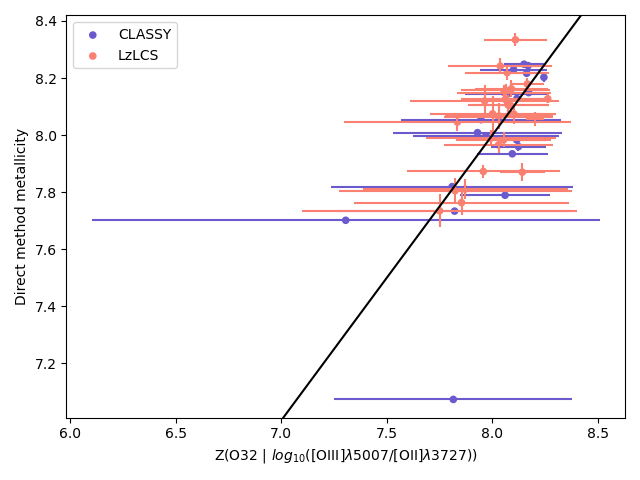
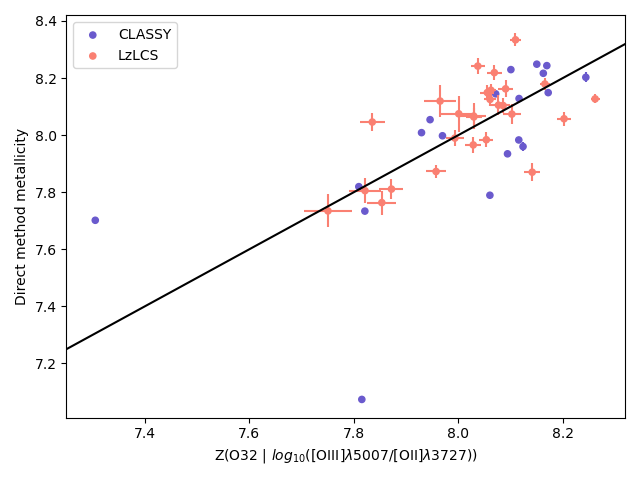
Replaced strong-line error calculations with a Monte Carlo

diff --git a/Strong-line Abundances/StrongLinesMainandPlot.py b/Strong-line Abundances/StrongLinesMainandPlot.py
@@ -35,30 +35,59 @@ def CLASSY():
 
     h_alpha = pd.read_excel(classy_cel_filepath, usecols = "BL", skiprows = 0).to_numpy().flatten()[0:45]
     h_beta = pd.read_excel(classy_cel_filepath, usecols = "AN", skiprows = 0).to_numpy().flatten()[0:45]
-    h_gamma = pd.read_excel(classy_cel_filepath, usecols = "N", skiprows = 0).to_numpy().flatten()[0:45]
 
     o_ii_3727 = pd.read_excel(classy_cel_filepath, usecols = "B", skiprows = 0).to_numpy().flatten()[0:45]
-    o_ii_3729 = pd.read_excel(classy_cel_filepath, usecols = "F", skiprows = 0).to_numpy().flatten()[0:45]
-    o_ii_7320 = pd.read_excel(classy_cel_filepath, usecols = "CB", skiprows = 0).to_numpy().flatten()[0:45]
-    o_ii_7330 = pd.read_excel(classy_cel_filepath, usecols = "CF", skiprows = 0).to_numpy().flatten()[0:45]
-
+    
     o_iii_5007 = pd.read_excel(classy_cel_filepath, usecols = "AV", skiprows = 0).to_numpy().flatten()[0:45]
-    o_iii_4959 = pd.read_excel(classy_cel_filepath, usecols = "AR", skiprows = 0).to_numpy().flatten()[0:45]
-    o_iii_4363 = pd.read_excel(classy_cel_filepath, usecols = "R", skiprows = 0).to_numpy().flatten()[0:45]
 
     n_ii_6584 = pd.read_excel(classy_cel_filepath, usecols = "BP", skiprows = 0).to_numpy().flatten()[0:45]
 
-    s_ii_6717 = pd.read_excel(classy_cel_filepath, usecols = "BT", skiprows = 0).to_numpy().flatten()[0:45]
-    s_ii_6731 = pd.read_excel(classy_cel_filepath, usecols = "BX", skiprows = 0).to_numpy().flatten()[0:45]
-
-    s_iii_6312 = pd.read_excel(classy_cel_filepath, usecols = "BH", skiprows = 0).to_numpy().flatten()[0:45]
-    s_iii_9069 = pd.read_excel(classy_cel_filepath, usecols = "CN", skiprows = 0).to_numpy().flatten()[0:45]
-
-    ar_iii_7135 = pd.read_excel(classy_cel_filepath, usecols = "CJ", skiprows = 0).to_numpy().flatten()[0:45]
-
     ne_iii_3869 = pd.read_excel(classy_cel_filepath, usecols = "CR", skiprows = 0).to_numpy().flatten()[0:45]
 
-    fe_iii_4658 = pd.read_excel(classy_cel_filepath, usecols = "Z", skiprows = 0).to_numpy().flatten()[0:45]
+
+    h_alpha_err_u = pd.read_excel(classy_cel_filepath, usecols = "BM", skiprows = 0).to_numpy().flatten()[0:45]
+    h_beta_err_u = pd.read_excel(classy_cel_filepath, usecols = "AO", skiprows = 0).to_numpy().flatten()[0:45]
+
+    o_ii_3727_err_u = pd.read_excel(classy_cel_filepath, usecols = "C", skiprows = 0).to_numpy().flatten()[0:45]
+    
+    o_iii_5007_err_u = pd.read_excel(classy_cel_filepath, usecols = "AW", skiprows = 0).to_numpy().flatten()[0:45]
+
+    n_ii_6584_err_u = pd.read_excel(classy_cel_filepath, usecols = "BQ", skiprows = 0).to_numpy().flatten()[0:45]
+
+    ne_iii_3869_err_u = pd.read_excel(classy_cel_filepath, usecols = "CS", skiprows = 0).to_numpy().flatten()[0:45]
+
+
+    h_alpha_err_d = pd.read_excel(classy_cel_filepath, usecols = "BN", skiprows = 0).to_numpy().flatten()[0:45]
+    h_beta_err_d = pd.read_excel(classy_cel_filepath, usecols = "AP", skiprows = 0).to_numpy().flatten()[0:45]
+
+    o_ii_3727_err_d = pd.read_excel(classy_cel_filepath, usecols = "D", skiprows = 0).to_numpy().flatten()[0:45]
+    
+    o_iii_5007_err_d = pd.read_excel(classy_cel_filepath, usecols = "AX", skiprows = 0).to_numpy().flatten()[0:45]
+
+    n_ii_6584_err_d = pd.read_excel(classy_cel_filepath, usecols = "BR", skiprows = 0).to_numpy().flatten()[0:45]
+
+    ne_iii_3869_err_d = pd.read_excel(classy_cel_filepath, usecols = "CT", skiprows = 0).to_numpy().flatten()[0:45]
+
+
+    h_alpha_err = (h_alpha_err_u + h_alpha_err_d) / 2
+    h_beta_err = (h_beta_err_u + h_beta_err_d) / 2
+
+    o_ii_3727_err = (o_ii_3727_err_u + o_ii_3727_err_d) / 2
+    
+    o_iii_5007_err = (o_iii_5007_err_u + o_iii_5007_err_d) / 2
+    n_ii_6584_err = (n_ii_6584_err_u + n_ii_6584_err_d) / 2
+
+    ne_iii_3869_err = (ne_iii_3869_err_u + ne_iii_3869_err_d) / 2
+
+    #Extend strong-line intensities to an array of intensities with the mean at the empirical value
+    #And the standard deviation as the error on the empirical value
+
+    h_alpha = np.random.normal(h_alpha[:, None], h_alpha_err[:, None], size = (45, 1000))
+    h_beta = np.random.normal(h_beta[:, None], h_beta_err[:, None], size = (45, 1000))
+    o_ii_3727 = np.random.normal(o_ii_3727[:, None], o_ii_3727_err[:, None], size = (45, 1000))
+    o_iii_5007 = np.random.normal(o_iii_5007[:, None], o_iii_5007_err[:, None], size = (45, 1000))
+    n_ii_6584 = np.random.normal(n_ii_6584[:, None], n_ii_6584_err[:, None], size = (45, 1000))
+    ne_iii_3869 = np.random.normal(ne_iii_3869[:, None], ne_iii_3869_err[:, None], size = (45, 1000))
 
     #Direct method metallicity
     direct_Z = pd.read_csv(classy_data_filepath, delimiter = ",", usecols = [6], header = 0).to_numpy().flatten()
@@ -69,31 +98,41 @@ def CLASSY():
     #Strong line metallicities
     #R2 method
     R2 = np.log10(o_ii_3727 / h_beta)
-    Z_R2 = metallicity(8.00, 0.92, 0.40, 0.17, R2) #For t^2 > 0 (inhomogeneous case)
-    sigma_R2 = error(-0.20, -0.05, 0.36, R2)
+    Z_R2_dist = metallicity(8.00, 0.92, 0.40, 0.17, R2)  # For t^2 > 0 (inhomogeneous case)
+    Z_R2_median = np.nanmedian(Z_R2_dist, axis = 1)
+    Z_R2_error_up = np.nanpercentile(Z_R2_dist, 84, axis = 1) - Z_R2_median
+    Z_R2_error_down = Z_R2_median - np.nanpercentile(Z_R2_dist, 16, axis = 1)
 
     #O32 method
     O32 = np.log10(o_iii_5007 / o_ii_3727)
-    Z_O32 = metallicity(8.33, -0.32, 0.08, -0.09, O32)
-    sigma_O32 = error(-0.02, 0.02, 0.30, O32)
+    Z_O32_dist = metallicity(8.33, -0.32, 0.08, -0.09, O32)
+    Z_O32_median = np.nanmedian(Z_O32_dist, axis = 1)
+    Z_O32_error_up = np.nanpercentile(Z_O32_dist, 84, axis = 1) - Z_O32_median
+    Z_O32_error_down = Z_O32_median - np.nanpercentile(Z_O32_dist, 16, axis = 1)
 
     #Ne3O2 method
     Ne3O2 = np.log10(ne_iii_3869 / o_ii_3727)
-    Z_Ne3O2 = metallicity(7.85, -0.71, -0.26, -0.05, Ne3O2)
-    sigma_Ne3O2 = error(-0.02, -0.04, 0.26, Ne3O2)
+    Z_Ne3O2_dist = metallicity(7.85, -0.71, -0.26, -0.05, Ne3O2)
+    Z_Ne3O2_median = np.nanmedian(Z_Ne3O2_dist, axis = 1)
+    Z_Ne3O2_error_up = np.nanpercentile(Z_Ne3O2_dist, 84, axis = 1) - Z_Ne3O2_median
+    Z_Ne3O2_error_down = Z_Ne3O2_median - np.nanpercentile(Z_Ne3O2_dist, 16, axis = 1)
 
     #R2Ne3 method
     R2Ne3 = np.log10((o_ii_3727 + ne_iii_3869) / h_beta)
-    Z_R2Ne3 = metallicity(7.83, 1.43, 0.00, 0.00, R2Ne3)
-    sigma_R2Ne3 = error(-0.57, 0.15, 0.31, R2Ne3)
+    Z_R2Ne3_dist = metallicity(7.83, 1.43, 0.00, 0.00, R2Ne3)
+    Z_R2Ne3_median = np.nanmedian(Z_R2Ne3_dist, axis = 1)
+    Z_R2Ne3_error_up = np.nanpercentile(Z_R2Ne3_dist, 84, axis = 1) - Z_R2Ne3_median
+    Z_R2Ne3_error_down = Z_R2Ne3_median - np.nanpercentile(Z_R2Ne3_dist, 16, axis = 1)
 
     #N2 method
     N2 = np.log10(n_ii_6584 / h_alpha)
-    Z_N2 = metallicity(9.27, 1.48, 0.86, 0.23, N2)
-    sigma_N2 = error(0.06, 0.17, 0.33, N2)
+    Z_N2_dist = metallicity(9.27, 1.48, 0.86, 0.23, N2)
+    Z_N2_median = np.nanmedian(Z_N2_dist, axis = 1)
+    Z_N2_error_up = np.nanpercentile(Z_N2_dist, 84, axis = 1) - Z_N2_median
+    Z_N2_error_down = Z_N2_median - np.nanpercentile(Z_N2_dist, 16, axis = 1)
 
-    return (direct_Z, direct_Z_err, Z_R2, sigma_R2, Z_O32, sigma_O32, Z_Ne3O2, 
-            sigma_Ne3O2, Z_R2Ne3, sigma_R2Ne3, Z_N2, sigma_N2, names)
+    return (direct_Z, direct_Z_err, Z_R2_median, (Z_R2_error_up + Z_R2_error_down)/2, Z_O32_median, (Z_O32_error_up + Z_O32_error_down)/2, Z_Ne3O2_median, (Z_Ne3O2_error_up + Z_Ne3O2_error_down)/2,
+    Z_R2Ne3_median, (Z_R2Ne3_error_up + Z_R2Ne3_error_down)/2, Z_N2_median, (Z_N2_error_up + Z_N2_error_down)/2, names)
 
 
 def LzLCS():
@@ -106,34 +145,49 @@ def LzLCS():
 
     h_alpha = pd.read_excel(lzlcs_cel_filepath, usecols = "AN", skiprows = 0).to_numpy().flatten()[0:27]
     h_beta = pd.read_excel(lzlcs_cel_filepath, usecols = "Z", skiprows = 0).to_numpy().flatten()[0:27]
-    h_gamma = pd.read_excel(lzlcs_cel_filepath, usecols = "T", skiprows = 0).to_numpy().flatten()[0:27]
-
+   
     o_ii_3727 = pd.read_excel(lzlcs_cel_filepath, usecols = "J", skiprows = 0).to_numpy().flatten()[0:27]
-    o_ii_3729 = pd.read_excel(lzlcs_cel_filepath, usecols = "L", skiprows = 0).to_numpy().flatten()[0:27]
 
     o_iii_5007 = pd.read_excel(lzlcs_cel_filepath, usecols = "AD", skiprows = 0).to_numpy().flatten()[0:27]
-    o_iii_4959 = pd.read_excel(lzlcs_cel_filepath, usecols = "AB", skiprows = 0).to_numpy().flatten()[0:27]
-    o_iii_4363 = pd.read_excel(lzlcs_cel_filepath, usecols = "V", skiprows = 0).to_numpy().flatten()[0:27]
-
-    n_ii_6584 = pd.read_excel(lzlcs_cel_filepath, usecols = "AP", skiprows = 0).to_numpy().flatten()[0:45]
-
-    s_ii_6717 = pd.read_excel(lzlcs_cel_filepath, usecols = "AR", skiprows = 0).to_numpy().flatten()[0:27]
-    s_ii_6731 = pd.read_excel(lzlcs_cel_filepath, usecols = "AT", skiprows = 0).to_numpy().flatten()[0:27]
+   
+    n_ii_6584 = pd.read_excel(lzlcs_cel_filepath, usecols = "AP", skiprows = 0).to_numpy().flatten()[0:27]
 
     ne_iii_3869 = pd.read_excel(lzlcs_cel_filepath, usecols = "N", skiprows = 0).to_numpy().flatten()[0:27]
 
+    h_alpha_err = pd.read_excel(lzlcs_cel_filepath, usecols="AO", skiprows=0).to_numpy().flatten()[0:27]
+    h_beta_err = pd.read_excel(lzlcs_cel_filepath, usecols="AA", skiprows=0).to_numpy().flatten()[0:27]
+    o_ii_3727_err = pd.read_excel(lzlcs_cel_filepath, usecols="K", skiprows=0).to_numpy().flatten()[0:27]
+    o_iii_5007_err = pd.read_excel(lzlcs_cel_filepath, usecols="AE", skiprows=0).to_numpy().flatten()[0:27]
+    n_ii_6584_err = pd.read_excel(lzlcs_cel_filepath, usecols="AQ", skiprows=0).to_numpy().flatten()[0:27]
+    ne_iii_3869_err = pd.read_excel(lzlcs_cel_filepath, usecols="O", skiprows=0).to_numpy().flatten()[0:27]
+
     h_alpha = fix_nan_issues(h_alpha)
+    h_alpha_err = fix_nan_issues(h_alpha_err)
+
     h_beta = fix_nan_issues(h_beta)
-    h_gamma = fix_nan_issues(h_gamma)
+    h_beta_err = fix_nan_issues(h_beta_err)
+
     o_ii_3727 = fix_nan_issues(o_ii_3727)
-    o_ii_3729 = fix_nan_issues(o_ii_3729)
+    o_ii_3727_err = fix_nan_issues(o_ii_3727_err)
+
     o_iii_5007 = fix_nan_issues(o_iii_5007)
-    o_iii_4959 = fix_nan_issues(o_iii_4959)
-    o_iii_4363 = fix_nan_issues(o_iii_4363)
+    o_iii_5007_err = fix_nan_issues(o_iii_5007_err)
+
     n_ii_6584 = fix_nan_issues(n_ii_6584)
-    s_ii_6717 = fix_nan_issues(s_ii_6717)
-    s_ii_6731 = fix_nan_issues(s_ii_6731)
+    n_ii_6584_err = fix_nan_issues(n_ii_6584_err)
+
     ne_iii_3869 = fix_nan_issues(ne_iii_3869)
+    ne_iii_3869_err = fix_nan_issues(ne_iii_3869_err)
+
+    #Extend strong-line intensities to an array of intensities with the mean at the empirical value
+    #And the standard deviation as the error on the empirical value
+
+    h_alpha = np.random.normal(h_alpha[:, None], h_alpha_err[:, None], size = (27, 1000))
+    h_beta = np.random.normal(h_beta[:, None], h_beta_err[:, None], size = (27, 1000))
+    o_ii_3727 = np.random.normal(o_ii_3727[:, None], o_ii_3727_err[:, None], size = (27, 1000))
+    o_iii_5007 = np.random.normal(o_iii_5007[:, None], o_iii_5007_err[:, None], size = (27, 1000))
+    n_ii_6584 = np.random.normal(n_ii_6584[:, None], n_ii_6584_err[:, None], size = (27, 1000))
+    ne_iii_3869 = np.random.normal(ne_iii_3869[:, None], ne_iii_3869_err[:, None], size = (27, 1000))
 
     #Direct method metallicity
     direct_Z = pd.read_csv(lzlcs_data_filepath, delimiter = ",", usecols = [8], header = 0).to_numpy().flatten()
@@ -141,35 +195,46 @@ def LzLCS():
     direct_Z_err_down = pd.read_csv(lzlcs_data_filepath, delimiter = ",", usecols = [10], header = 0).to_numpy().flatten()
     direct_Z_err = (direct_Z_err_up + direct_Z_err_down) / 2
 
-     #Strong line metallicities
+    #Strong line metallicities
     #R2 method
     R2 = np.log10(o_ii_3727 / h_beta)
-    Z_R2 = metallicity(8.00, 0.92, 0.40, 0.17, R2) #For t^2 > 0 (inhomogeneous case)
-    sigma_R2 = error(-0.20, -0.05, 0.36, R2)
+    Z_R2_dist = metallicity(8.00, 0.92, 0.40, 0.17, R2)
+    Z_R2_median = np.nanmedian(Z_R2_dist, axis = 1)
+    Z_R2_error_up = np.nanpercentile(Z_R2_dist, 84, axis = 1) - Z_R2_median
+    Z_R2_error_down = Z_R2_median - np.nanpercentile(Z_R2_dist, 16, axis = 1)
 
-    #O32 method
+    # O32 method
     O32 = np.log10(o_iii_5007 / o_ii_3727)
-    Z_O32 = metallicity(8.33, -0.32, 0.08, -0.09, O32)
-    sigma_O32 = error(-0.02, 0.02, 0.30, O32)
+    Z_O32_dist = metallicity(8.33, -0.32, 0.08, -0.09, O32)
+    Z_O32_median = np.nanmedian(Z_O32_dist, axis = 1)
+    Z_O32_error_up = np.nanpercentile(Z_O32_dist, 84, axis = 1) - Z_O32_median
+    Z_O32_error_down = Z_O32_median - np.nanpercentile(Z_O32_dist, 16, axis = 1)
 
     #Ne3O2 method
     Ne3O2 = np.log10(ne_iii_3869 / o_ii_3727)
-    Z_Ne3O2 = metallicity(7.85, -0.71, -0.26, -0.05, Ne3O2)
-    sigma_Ne3O2 = error(-0.02, -0.04, 0.26, Ne3O2)
+    Z_Ne3O2_dist = metallicity(7.85, -0.71, -0.26, -0.05, Ne3O2)
+    Z_Ne3O2_median = np.nanmedian(Z_Ne3O2_dist, axis = 1)
+    Z_Ne3O2_error_up = np.nanpercentile(Z_Ne3O2_dist, 84, axis = 1) - Z_Ne3O2_median
+    Z_Ne3O2_error_down = Z_Ne3O2_median - np.nanpercentile(Z_Ne3O2_dist, 16, axis = 1)
 
-    #R2Ne3 method
+    # R2Ne3 method
     R2Ne3 = np.log10((o_ii_3727 + ne_iii_3869) / h_beta)
-    Z_R2Ne3 = metallicity(7.83, 1.43, 0.00, 0.00, R2Ne3)
-    sigma_R2Ne3 = error(-0.57, 0.15, 0.31, R2Ne3)
+    Z_R2Ne3_dist = metallicity(7.83, 1.43, 0.00, 0.00, R2Ne3)
+    Z_R2Ne3_median = np.nanmedian(Z_R2Ne3_dist, axis = 1)
+    Z_R2Ne3_error_up = np.nanpercentile(Z_R2Ne3_dist, 84, axis = 1) - Z_R2Ne3_median
+    Z_R2Ne3_error_down = Z_R2Ne3_median - np.nanpercentile(Z_R2Ne3_dist, 16, axis = 1)
 
     #N2 method
     N2 = np.log10(n_ii_6584 / h_alpha)
-    Z_N2 = metallicity(9.27, 1.48, 0.86, 0.23, N2)
-    sigma_N2 = error(0.06, 0.17, 0.33, N2)
+    Z_N2_dist = metallicity(9.27, 1.48, 0.86, 0.23, N2)
+    Z_N2_median = np.nanmedian(Z_N2_dist, axis = 1)
+    Z_N2_error_up = np.nanpercentile(Z_N2_dist, 84, axis = 1) - Z_N2_median
+    Z_N2_error_down = Z_N2_median - np.nanpercentile(Z_N2_dist, 16, axis = 1)
 
-    return (direct_Z, direct_Z_err, Z_R2, sigma_R2, Z_O32, sigma_O32, Z_Ne3O2, 
-            sigma_Ne3O2, Z_R2Ne3, sigma_R2Ne3, Z_N2, sigma_N2, names)
-
+    return (
+        direct_Z, direct_Z_err, Z_R2_median, (Z_R2_error_up + Z_R2_error_down) / 2, Z_O32_median, (Z_O32_error_up + Z_O32_error_down) / 2,
+        Z_Ne3O2_median, (Z_Ne3O2_error_up + Z_Ne3O2_error_down) / 2, Z_R2Ne3_median, (Z_R2Ne3_error_up + Z_R2Ne3_error_down) / 2, Z_N2_median, (Z_N2_error_up + Z_N2_error_down) / 2,
+        names)
 
 def main():
     (Z_dir_C, Z_dir_err_C, Z_R2_C, Z_R2_err_C, Z_O32_C, Z_O32_err_C, Z_Ne3O2_C, 
